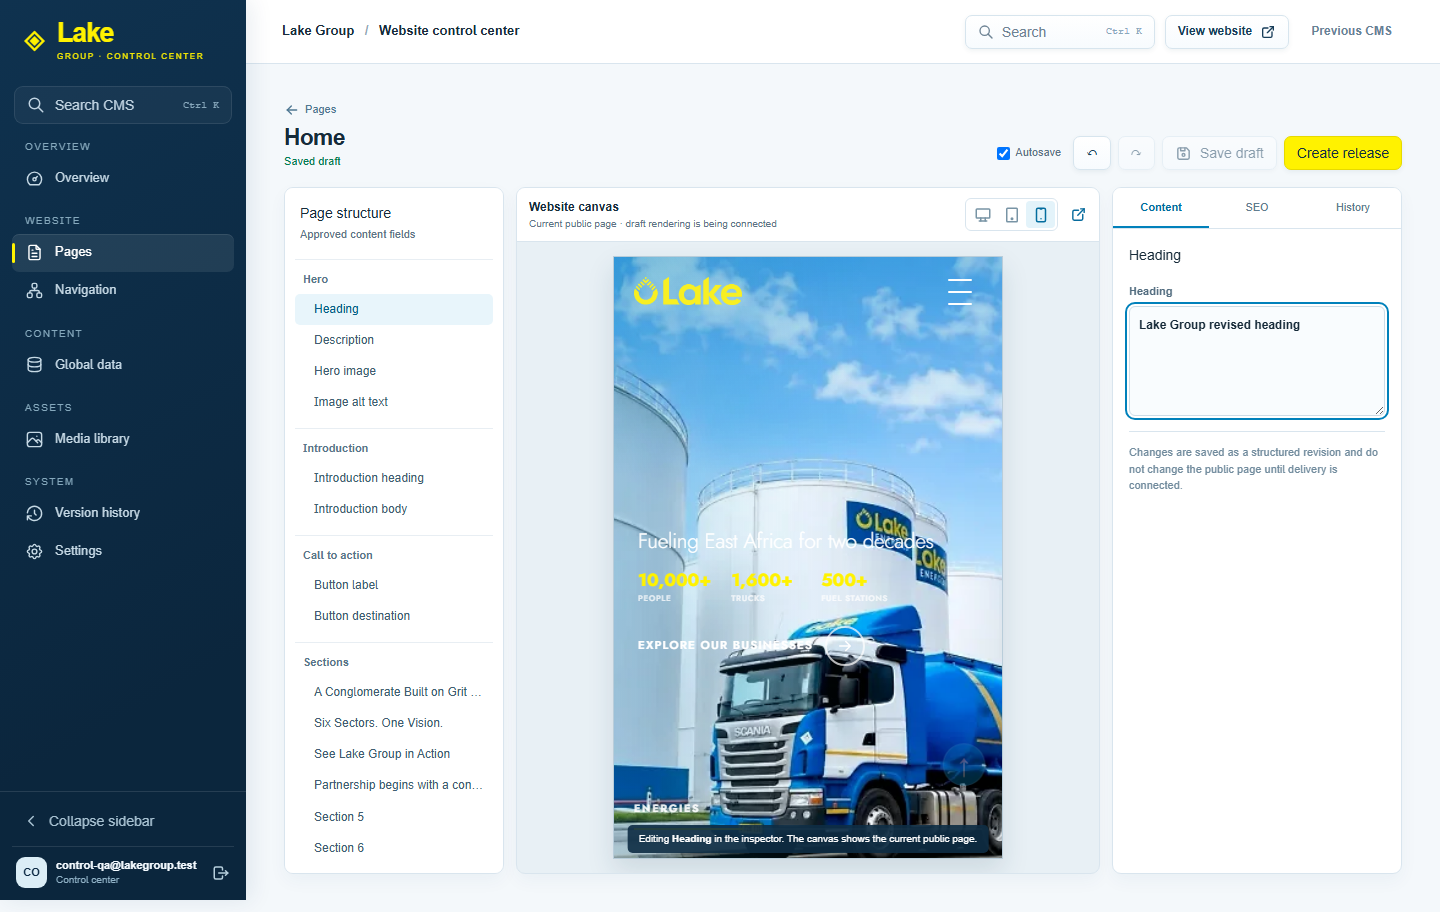
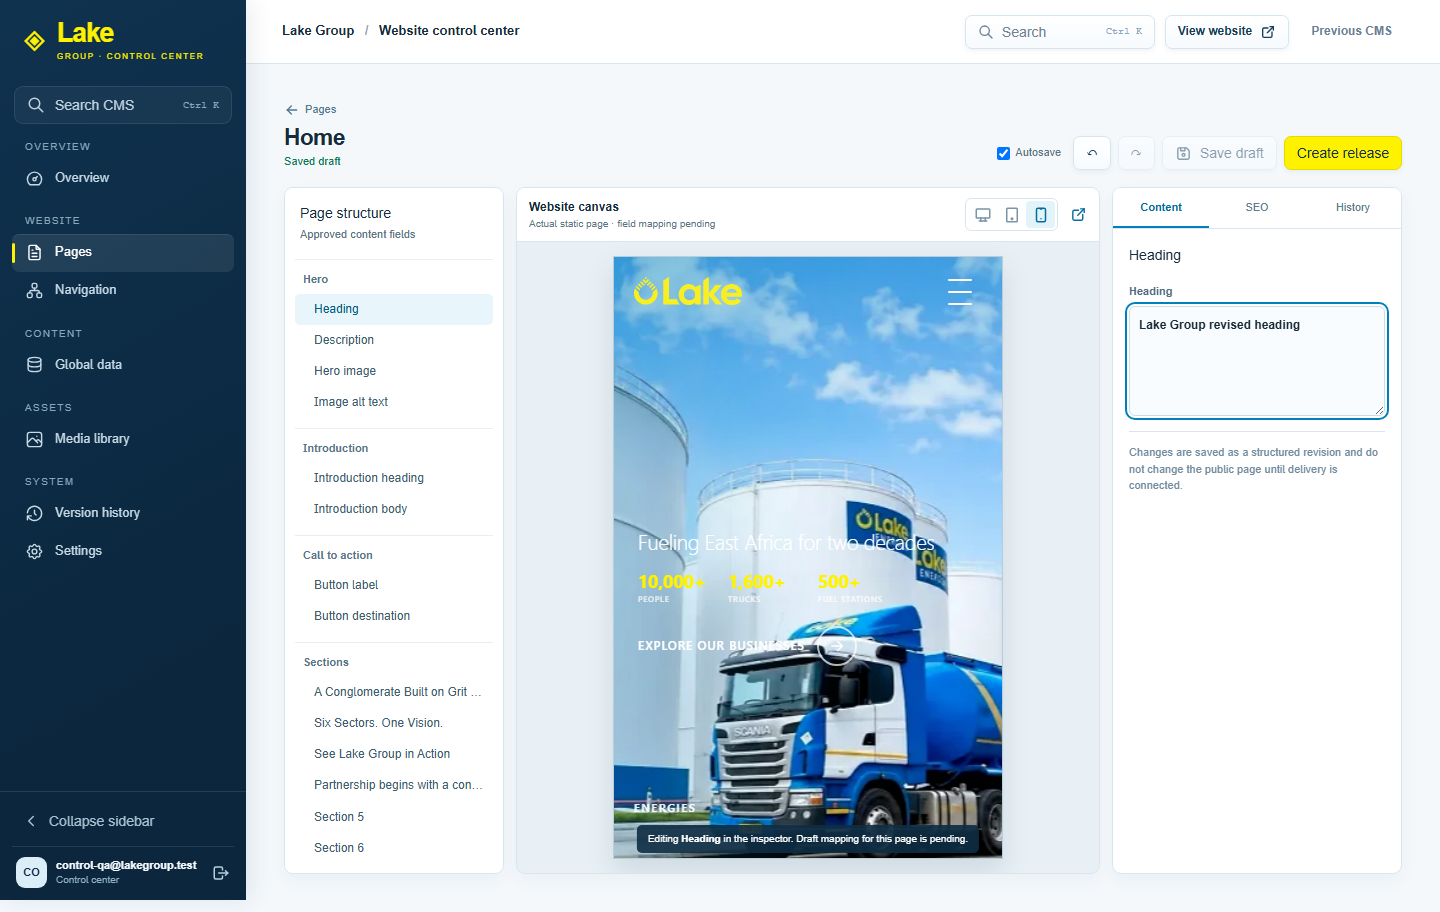
feat(cms-v2): preview real pages with authenticated source

diff --git a/cms/src/features/control-center/EditorPage.tsx b/cms/src/features/control-center/EditorPage.tsx
@@ -37,6 +37,10 @@ export function EditorPage() {
   const [past, setPast] = useState<ContentData[]>([]);
   const [future, setFuture] = useState<ContentData[]>([]);
   const inspectorRef = useRef<HTMLDivElement>(null);
+  const frameRef = useRef<HTMLIFrameElement>(null);
+  const [source, setSource] = useState<{ sourceUrl: string; html: string } | null>(null);
+  const [previewError, setPreviewError] = useState('');
+  const [frameReady, setFrameReady] = useState(0);
   const dirty = Boolean(data && saved && JSON.stringify(data) !== JSON.stringify(saved));
 
   useEffect(() => {
@@ -54,6 +58,48 @@ export function EditorPage() {
     }).catch((cause) => { if (live) { setError(apiErrorMessage(cause)); setStatus('Unable to load page'); } });
     return () => { live = false; };
   }, [key]);
+
+  useEffect(() => {
+    let live = true;
+    setSource(null); setPreviewError('');
+    void controlApi.pageSource(key).then((result) => { if (live) setSource(result); })
+      .catch((cause) => { if (live) setPreviewError(apiErrorMessage(cause)); });
+    return () => { live = false; };
+  }, [key]);
+
+  const previewHtml = source?.html
+    .replace(/<script\b[^>]*>[\s\S]*?<\/script>/gi, '')
+    .replace(/<meta\b(?=[^>]*http-equiv\s*=\s*["'](?:Content-Security-Policy|refresh)["'])[^>]*>/gi, '')
+    .replace(/<head([^>]*)>/i, `<head$1><base href="${source.sourceUrl.replace(/"/g, '&quot;')}">`);
+  useEffect(() => {
+    const document = frameRef.current?.contentDocument;
+    if (!document || !data || !source || key !== 'lake-aviation') return;
+    const replacements: Record<string, string> = {
+      'hero.heading': data.hero.heading,
+      'hero.description': data.hero.description,
+      'introduction.heading': data.introduction.heading,
+      'introduction.body': data.introduction.body,
+    };
+    for (const [field, value] of Object.entries(replacements)) {
+      document.querySelectorAll(`[data-cms-field="${field}"]`).forEach((node) => { node.textContent = value; });
+    }
+    document.querySelectorAll<HTMLImageElement>('[data-cms-field="hero.image"]').forEach((image) => {
+      image.src = new URL(data.hero.image, source.sourceUrl).toString();
+      image.alt = data.hero.alt ?? '';
+    });
+    document.querySelectorAll<HTMLElement>('[data-cms-field]').forEach((node) => {
+      node.style.outline = node.getAttribute('data-cms-field') === selected ? '2px solid #0181bb' : '';
+      node.style.outlineOffset = node.getAttribute('data-cms-field') === selected ? '3px' : '';
+      node.style.cursor = 'pointer';
+    });
+    const onClick = (event: MouseEvent) => {
+      event.preventDefault();
+      const target = (event.target as Element)?.closest?.('[data-cms-field]');
+      if (target) select(target.getAttribute('data-cms-field') || 'hero.heading');
+    };
+    document.addEventListener('click', onClick, true);
+    return () => document.removeEventListener('click', onClick, true);
+  }, [data, source, frameReady, selected, key]);
 
   const edit = (path: string, value: string) => { if (!data) return; setPast((items) => [...items.slice(-29), copy(data)]); setFuture([]); setData(updateField(data, path, value)); setSelected(path); setStatus('Unsaved changes'); };
   const editSeo = (name: keyof ContentData['seo'], value: string | boolean) => { if (!data) return; setPast((items) => [...items.slice(-29), copy(data)]); setFuture([]); setData({ ...data, seo: { ...data.seo, [name]: value } }); setStatus('Unsaved changes'); };
@@ -92,7 +138,7 @@ export function EditorPage() {
     {error && <div className="control-error" role="alert">{error}</div>}
     {!data ? <div className="control-panel control-empty">This page has no imported CMS draft. Run the CMS V2 content import before editing. <a href={`${publicSiteBase}/${page.route}`} target="_blank" rel="noreferrer">View public page</a></div> : <div className="control-editor-grid">
       <aside className="control-editor-layers"><h2>Page structure</h2><p>Approved content fields</p><div className="control-layer-group"><strong>Hero</strong>{fields.slice(0, 4).map((field) => <button key={field.path} className={selected === field.path ? 'is-selected' : ''} onClick={() => select(field.path)}>{field.label}</button>)}</div><div className="control-layer-group"><strong>Introduction</strong>{fields.slice(4, 6).map((field) => <button key={field.path} className={selected === field.path ? 'is-selected' : ''} onClick={() => select(field.path)}>{field.label}</button>)}</div><div className="control-layer-group"><strong>Call to action</strong>{fields.slice(6).map((field) => <button key={field.path} className={selected === field.path ? 'is-selected' : ''} onClick={() => select(field.path)}>{field.label}</button>)}</div><div className="control-layer-group"><strong>Sections</strong>{data.sections.map((section, index) => <button key={section.key} onClick={() => { setSelected(`sections.${index}`); setTab('content'); }} className={selected === `sections.${index}` ? 'is-selected' : ''}>{section.heading}</button>)}</div></aside>
-      <section className="control-canvas"><div className="control-canvas-toolbar"><div><strong>Website canvas</strong><span>Current public page · draft rendering is being connected</span></div><div className="control-viewport"><button aria-label="Desktop preview" aria-pressed={viewport === 'desktop'} onClick={() => setViewport('desktop')}><IconDeviceDesktop size={18} /></button><button aria-label="Tablet preview" aria-pressed={viewport === 'tablet'} onClick={() => setViewport('tablet')}><IconDeviceTablet size={18} /></button><button aria-label="Mobile preview" aria-pressed={viewport === 'mobile'} onClick={() => setViewport('mobile')}><IconDeviceMobile size={18} /></button></div><a href={`${publicSiteBase}/${page.route}`} target="_blank" rel="noreferrer" aria-label="Open public page"><IconExternalLink size={17} /></a></div><div className="control-canvas-stage"><iframe title={`${page.label} current public website`} src={`${publicSiteBase}/${page.route}`} className={`control-site-frame ${viewport}`} loading="lazy" /><div className="control-canvas-note">Editing <strong>{selected.startsWith('sections.') ? data.sections[Number(selected.split('.')[1])]?.heading : fields.find((item) => item.path === selected)?.label ?? 'content'}</strong> in the inspector. The canvas shows the current public page.</div></div></section>
+      <section className="control-canvas"><div className="control-canvas-toolbar"><div><strong>Website canvas</strong><span>{key === 'lake-aviation' ? 'Actual page with approved draft fields' : 'Actual static page · field mapping pending'}</span></div><div className="control-viewport"><button aria-label="Desktop preview" aria-pressed={viewport === 'desktop'} onClick={() => setViewport('desktop')}><IconDeviceDesktop size={18} /></button><button aria-label="Tablet preview" aria-pressed={viewport === 'tablet'} onClick={() => setViewport('tablet')}><IconDeviceTablet size={18} /></button><button aria-label="Mobile preview" aria-pressed={viewport === 'mobile'} onClick={() => setViewport('mobile')}><IconDeviceMobile size={18} /></button></div><a href={`${publicSiteBase}/${page.route}`} target="_blank" rel="noreferrer" aria-label="Open public page"><IconExternalLink size={17} /></a></div><div className="control-canvas-stage">{previewHtml ? <iframe ref={frameRef} title={`${page.label} actual website preview`} srcDoc={previewHtml} sandbox="allow-same-origin" onLoad={() => setFrameReady((value) => value + 1)} className={`control-site-frame ${viewport}`} /> : <div className="control-empty">{previewError || 'Loading actual website preview…'}</div>}<div className="control-canvas-note">Editing <strong>{selected.startsWith('sections.') ? data.sections[Number(selected.split('.')[1])]?.heading : fields.find((item) => item.path === selected)?.label ?? 'content'}</strong> in the inspector. {key === 'lake-aviation' ? 'Mapped fields update on the page.' : 'Draft mapping for this page is pending.'}</div></div></section>
       <aside ref={inspectorRef} className="control-inspector"><div className="control-inspector-tabs"><button className={tab === 'content' ? 'is-active' : ''} onClick={() => setTab('content')}>Content</button><button className={tab === 'seo' ? 'is-active' : ''} onClick={() => setTab('seo')}>SEO</button><button className={tab === 'history' ? 'is-active' : ''} onClick={() => setTab('history')}>History</button></div>{tab === 'content' && <div className="control-inspector-content"><h2>{selected.startsWith('sections.') ? 'Section' : fields.find((item) => item.path === selected)?.label}</h2>{selected.startsWith('sections.') ? (() => { const index = Number(selected.split('.')[1]); const section = data.sections[index]; if (!section) return null; return <><label>Heading<input value={section.heading} onChange={(event) => editSection(index, 'heading', event.target.value)} /></label><label>Body<textarea rows={8} value={section.body} onChange={(event) => editSection(index, 'body', event.target.value)} /></label></>; })() : (() => { const field = fields.find((item) => item.path === selected); if (!field) return null; return <label>{field.label}{field.multiline ? <textarea rows={field.path === 'introduction.body' ? 9 : 5} value={getField(data, field.path)} onChange={(event) => edit(field.path, event.target.value)} /> : <input value={getField(data, field.path)} onChange={(event) => edit(field.path, event.target.value)} />}</label>; })()}<p className="control-inspector-hint">Changes are saved as a structured revision and do not change the public page until delivery is connected.</p></div>}{tab === 'seo' && <div className="control-inspector-content"><h2>Search appearance</h2><label>Page title<input value={data.seo.title} onChange={(event) => editSeo('title', event.target.value)} /></label><label>Description<textarea rows={5} value={data.seo.description} onChange={(event) => editSeo('description', event.target.value)} /></label><label>Canonical URL<input value={data.seo.canonical ?? ''} onChange={(event) => editSeo('canonical', event.target.value)} /></label><label className="control-check"><input type="checkbox" checked={data.seo.index} onChange={(event) => editSeo('index', event.target.checked)} /> Allow search indexing</label></div>}{tab === 'history' && <div className="control-inspector-content"><h2>Draft history</h2>{versions.length ? versions.map((version) => <div className="control-version" key={version.id}><strong>{new Date(version.createdAt).toLocaleString()}</strong><small>{version.id.slice(0, 14)}</small>{version.id !== revisionId && <button onClick={() => void restore(version.id)}><IconRefresh size={15} /> Restore as draft</button>}</div>) : <p>No saved revisions yet.</p>}</div>}</aside>
     </div>}
   </div>;

diff --git a/backend/src/lib/cms-v2-page-source.js b/backend/src/lib/cms-v2-page-source.js
@@ -1,0 +1,29 @@
+import { CMS_V2_DOCUMENTS } from './cms-v2-content.js';
+import { assertSafeUrl } from './ssrf-guard.js';
+
+const DEFAULT_SITE = 'https://lake-group.vercel.app';
+const fail = (code, message) => Object.assign(new Error(message), { code });
+
+/** Fetches only a route from the closed page registry for authenticated preview. */
+export function createPageSourceReader({ siteOrigin = DEFAULT_SITE, fetchImpl = globalThis.fetch, checkUrl = assertSafeUrl } = {}) {
+  const origin = new URL(siteOrigin);
+  if (origin.protocol !== 'https:' || origin.username || origin.password || origin.search || origin.hash || origin.pathname !== '/') {
+    throw new TypeError('CMS V2 public site origin must be an HTTPS origin');
+  }
+  return async function readPageSource(key) {
+    const definition = CMS_V2_DOCUMENTS[key];
+    if (!definition || definition.kind !== 'page') throw fail('INVALID_CONTENT_DOCUMENT', 'This page is not registered for CMS V2.');
+    const sourceUrl = new URL(definition.route, origin).toString();
+    const safety = await checkUrl(sourceUrl);
+    if (!safety.ok) throw fail('PREVIEW_SOURCE_UNAVAILABLE', 'The public preview source is unavailable.');
+    let response;
+    try { response = await fetchImpl(sourceUrl, { redirect: 'error', signal: AbortSignal.timeout(8000), headers: { accept: 'text/html' } }); }
+    catch { throw fail('PREVIEW_SOURCE_UNAVAILABLE', 'The public preview source is unavailable.'); }
+    if (!response.ok || !response.headers.get('content-type')?.includes('text/html')) {
+      throw fail('PREVIEW_SOURCE_UNAVAILABLE', 'The public preview source is unavailable.');
+    }
+    const html = await response.text();
+    if (html.length > 2_000_000) throw fail('PREVIEW_SOURCE_UNAVAILABLE', 'The public preview page is too large.');
+    return { sourceUrl, html };
+  };
+}

diff --git a/backend/tests/cms-v2-page-source.test.js b/backend/tests/cms-v2-page-source.test.js
@@ -1,0 +1,26 @@
+import { describe, expect, it, vi } from 'vitest';
+import { createPageSourceReader } from '../src/lib/cms-v2-page-source.js';
+
+describe('CMS V2 authenticated page source', () => {
+  it('fetches only a registered public page from a fixed origin', async () => {
+    const fetchImpl = vi.fn(async () => ({
+      ok: true,
+      headers: new Headers({ 'content-type': 'text/html; charset=utf-8' }),
+      text: async () => '<!doctype html><html><body>Lake Aviation</body></html>',
+    }));
+    const read = createPageSourceReader({ checkUrl: async () => ({ ok: true }), fetchImpl });
+    const result = await read('lake-aviation');
+    expect(result.sourceUrl).toBe('https://lake-group.vercel.app/lake-aviation.html');
+    expect(result.html).toContain('Lake Aviation');
+    expect(fetchImpl).toHaveBeenCalledWith(result.sourceUrl, expect.objectContaining({ redirect: 'error' }));
+    await expect(read('global')).rejects.toMatchObject({ code: 'INVALID_CONTENT_DOCUMENT' });
+  });
+
+  it('rejects blocked destinations and non HTML responses', async () => {
+    const blocked = createPageSourceReader({ checkUrl: async () => ({ ok: false }), fetchImpl: vi.fn() });
+    await expect(blocked('home')).rejects.toMatchObject({ code: 'PREVIEW_SOURCE_UNAVAILABLE' });
+    const nonHtml = createPageSourceReader({ checkUrl: async () => ({ ok: true }), fetchImpl: async () => ({ ok: true, headers: new Headers({ 'content-type': 'application/json' }) }) });
+    await expect(nonHtml('home')).rejects.toMatchObject({ code: 'PREVIEW_SOURCE_UNAVAILABLE' });
+    expect(() => createPageSourceReader({ siteOrigin: 'http://127.0.0.1:8080' })).toThrow();
+  });
+});

diff --git a/backend/src/lib/cms-v2-runtime-service.js b/backend/src/lib/cms-v2-runtime-service.js
@@ -1,8 +1,9 @@
 import { createCmsV2PrismaRepository } from './cms-v2-prisma-repository.js';
 import { createContentReleaseService } from './cms-v2-content.js';
 import { writeAudit } from './audit.js';
+import { createPageSourceReader } from './cms-v2-page-source.js';
 
-export function createCmsV2RuntimeService({ db, storage, logger }) {
+export function createCmsV2RuntimeService({ db, storage, logger, publicSiteOrigin }) {
   const repository = createCmsV2PrismaRepository(db);
   const service = createContentReleaseService({
     repository,
@@ -20,6 +21,7 @@ export function createCmsV2RuntimeService({ db, storage, logger }) {
   });
   return {
     ...service,
+    readPageSource: createPageSourceReader({ siteOrigin: publicSiteOrigin }),
     async saveDraft(input) { const revision = await service.saveDraft(input); await writeAudit(db, { actorId: input.actorId, action: 'CMS_V2_DRAFT_SAVED', resource: `admin/v2/content/${input.key}`, metadata: { revisionId: revision.id } }, logger); return revision; },
     async publish(input) { const release = await service.publish(input); await writeAudit(db, { actorId: input.actorId, action: 'CMS_V2_PUBLISHED', resource: 'admin/v2/releases', metadata: { releaseId: release.id, integrity: release.integrity } }, logger); return release; },
     async restoreRevision(input) { const revision = await service.restoreRevision(input); await writeAudit(db, { actorId: input.actorId, action: 'CMS_V2_REVISION_RESTORED', resource: `admin/v2/content/${input.key}`, metadata: { revisionId: revision.id, restoredRevisionId: input.revisionId } }, logger); return revision; },

diff --git a/backend/tests/cms-v2-runtime.test.js b/backend/tests/cms-v2-runtime.test.js
@@ -42,6 +42,19 @@ describe('CMS V2 release storage', () => {
     });
   });
 
+  it('requires CMS administrator access for the actual page preview source', async () => {
+    const user = await makeUser({ email: 'preview@lakegroup.test', password: 'correct-horse', role: 'VIEWER' });
+    user.cmsAccessLevel = 'IT_ADMIN';
+    const service = { readPageSource: async () => ({ sourceUrl: 'https://lake-group.vercel.app/index.html', html: '<!doctype html><html></html>' }) };
+    const ctx = makeApp({ users: [user], options: { cmsV2Service: service } });
+    expect((await request(ctx.app).get('/admin/v2/page-source/home')).status).toBe(401);
+    const agent = request.agent(ctx.app);
+    await agent.post('/auth/login').send({ email: user.email, password: 'correct-horse' });
+    const preview = await agent.get('/admin/v2/page-source/home');
+    expect(preview.status).toBe(200);
+    expect(preview.body.sourceUrl).toBe('https://lake-group.vercel.app/index.html');
+  });
+
   it('writes an immutable snapshot before atomically replacing the current pointer', async () => {
     const root = await mkdtemp(join(tmpdir(), 'lake-cms-v2-'));
     const storage = createCmsV2ReleaseStorage({ root });

diff --git a/backend/src/index.js b/backend/src/index.js
@@ -26,7 +26,7 @@ const rateLimitPool = createRateLimitPool(config.databaseUrlRuntime);
 const prefsStore = createUserPrefsStore(config.databaseUrlRuntime) ?? createMemoryPrefsStore();
 const mediaStorage = createObjectStorage(config);
 const cmsV2Storage = createCmsV2ReleaseStorage({ root: resolve(process.env.CMS_V2_RELEASE_DIR || '../public-content') });
-const cmsV2Service = db ? createCmsV2RuntimeService({ db, storage: cmsV2Storage, logger }) : null;
+const cmsV2Service = db ? createCmsV2RuntimeService({ db, storage: cmsV2Storage, logger, publicSiteOrigin: process.env.CMS_V2_PUBLIC_SITE_ORIGIN }) : null;
 
 if (!db) {
   logger.warn(

diff --git a/cms/src/features/control-center/api.ts b/cms/src/features/control-center/api.ts
@@ -30,6 +30,7 @@ export type Release = { id: string; publishedAt: string; integrity: string; mani
 
 export const controlApi = {
   pages: () => api.get<{ pages: ControlPage[] }>('/admin/v2/pages'),
+  pageSource: (key: string) => api.get<{ sourceUrl: string; html: string }>(`/admin/v2/page-source/${encodeURIComponent(key)}`),
   document: (key: string) => api.get<DocumentResponse>(`/admin/v2/content/${encodeURIComponent(key)}`),
   versions: (key: string) => api.get<{ revisions: Revision[] }>(`/admin/v2/content/${encodeURIComponent(key)}/versions`),
   releases: () => api.get<{ releases: Release[] }>('/admin/v2/releases'),

diff --git a/backend/src/routes/cms-v2.js b/backend/src/routes/cms-v2.js
@@ -5,6 +5,9 @@ import { CMS_V2_PAGE_DEFINITIONS } from '../lib/cms-v2-content.js';
 export function cmsV2Router({ db, service, recentAuthWindowMs } = {}) {
   const router = Router();
   const guard = [requireAuth(db), requireCmsAdmin()];
+  router.get('/page-source/:documentKey', ...guard, async (req, res, next) => {
+    try { res.json(await service.readPageSource(req.params.documentKey)); } catch (error) { next(error); }
+  });
   router.get('/pages', ...guard, async (_req, res, next) => {
     try {
       const pages = await Promise.all(CMS_V2_PAGE_DEFINITIONS.map(async (page) => {

diff --git a/docs/CMS_V2_ARCHITECTURE.md b/docs/CMS_V2_ARCHITECTURE.md
@@ -6,7 +6,7 @@
 
 The V2 frontend reads `/admin/v2/pages`, `/admin/v2/content/:documentKey`, and `/admin/v2/releases`. The backend catalog derives its rows from the developer owned `CMS_V2_PAGE_DEFINITIONS` registry and reads each document's actual draft and published revision pointers. The UI contains no sample metrics or invented page records.
 
-The current editor displays the real public page in an iframe and edits the approved structured content document in a separate inspector. It supports autosave, manual save, undo and redo for the current session, SEO fields, a revision list, revision restore, and content release creation. The iframe currently shows the public version. It does **not** render draft content or offer canvas selection or resize. This is visible in the editor itself.
+The editor fetches registered public page HTML through the authenticated `/admin/v2/page-source/:documentKey` endpoint and renders it as a script-free `srcdoc` canvas. This avoids the public site's frame restrictions while retaining its real HTML, CSS, and assets. It supports autosave, manual save, undo and redo for the current session, SEO fields, a revision list, revision restore, and content release creation. Lake Aviation has an initial explicit field-to-DOM mapping: hero and introduction text and hero image edits render in the canvas, and clicking a mapped field selects the inspector property. Other pages display the current public version and are labelled as awaiting field mapping. Section composition, canvas resize, and responsive property overrides remain incomplete.
 
 The backend's existing CMS V2 service stores immutable content revisions in PostgreSQL and writes release artifacts under `public-content/`. The current public hydration adapter is a disabled Lake Aviation pilot. Creating a CMS content release is **not yet equivalent to updating the deployed public site**. Public deployment and preview delivery must be connected before the new route replaces `/app` as the default landing page.
 
@@ -20,7 +20,7 @@ The backend's existing CMS V2 service stores immutable content revisions in Post
 
 ## Next implementation gates
 
-1. Draft capable actual website preview and safe field to DOM mapping on all registered pages.
+1. Extend draft field mapping and safe canvas selection to all registered pages.
 2. Structured section and component composition with layout schema, responsive overrides, and real public rendering.
 3. First class navigation, global data reference graph, and media workspaces.
 4. Durable public release storage and deployment invalidation, followed by migration and visual parity checks.

diff --git a/docs/CMS_V2_SECURITY.md b/docs/CMS_V2_SECURITY.md
@@ -2,4 +2,4 @@
 
 The `/control` route uses the existing session restoration guard. All new data reads and mutations use `/admin/v2` routes guarded by `requireAuth` and `requireCmsAdmin`. The new page catalog uses the same guards. Draft saves are schema validated by the existing V2 content service and reject stale base revision IDs. The interface renders content through React text and form values; it does not inject CMS HTML into the page.
 
-The public website iframe is a view of the deployed site and receives no draft payload. No public website runtime or script was changed in this milestone. Backend tests cover unauthorized access to the new catalog. Full CMS V2 threat testing remains required before production readiness.
+The page source endpoint accepts only keys in the closed page registry and fetches from a configured HTTPS public site origin. The backend checks the destination with the existing SSRF guard, refuses redirects and non-HTML responses, and caps accepted HTML. The editor removes scripts and in-page CSP/refresh meta tags from the copied page before rendering a sandboxed `srcdoc` iframe without script permission. It applies approved draft fields through DOM text and image properties, not HTML insertion. No public website runtime or script was changed in this milestone. Backend tests cover unauthorized access to the catalog and source endpoint. Full CMS V2 threat testing remains required before production readiness.

diff --git a/docs/CMS_V2_OPERATIONS.md b/docs/CMS_V2_OPERATIONS.md
@@ -2,4 +2,4 @@
 
 Run `npm run build` in `cms/` and `backend/` to verify compilation. Run `node e2e/control-center.mjs` from `cms/` for browser QA; it starts in memory backend and static public website servers, authenticates a test administrator, exercises page search and autosave, and captures screenshots in `docs/qa/cms-v2-control-center/`. The test does not touch production data.
 
-The current entry point is `/control`. `/app` remains the default and retains existing workflows. A release created through `/control` is an immutable CMS artifact; verify its downstream deployment separately because public delivery is not connected yet.
+The current entry point is `/control`. `/app` remains the default and retains existing workflows. The preview source defaults to `https://lake-group.vercel.app`; set `CMS_V2_PUBLIC_SITE_ORIGIN` on the backend to another HTTPS public origin when necessary. The CMS CSP must permit that origin for base, styles, fonts and images. A release created through `/control` is an immutable CMS artifact; verify its downstream deployment separately because public delivery is not connected yet.

diff --git a/docs/CMS_V2_QA.md b/docs/CMS_V2_QA.md
@@ -5,7 +5,7 @@
 - CMS and backend builds pass.
 - Backend V2 route tests cover authentication and page catalog revision state.
 - The CMS authentication guard tests pass with the test runner's explicit disabled bypass value.
-- Browser test covers sign in, overview, page search, editor, autosave, and actual public iframe at 1440px.
+- Browser test covers sign in, overview, page search, editor, autosave, and the actual public page source in a script-free canvas at 1440px. It checks Lake Aviation draft text, canvas-to-inspector selection, and hero image loading.
 - Browser test covers the overview at 390px and checks horizontal overflow.
 - Screenshots are saved under `docs/qa/cms-v2-control-center/`.
 
